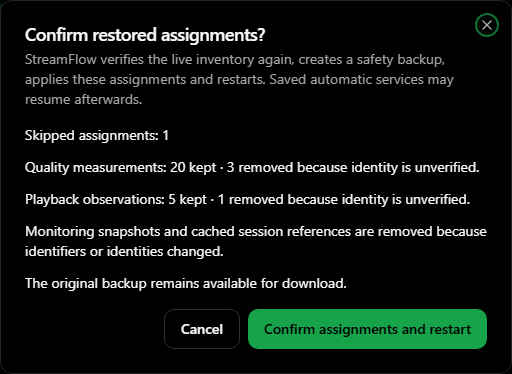
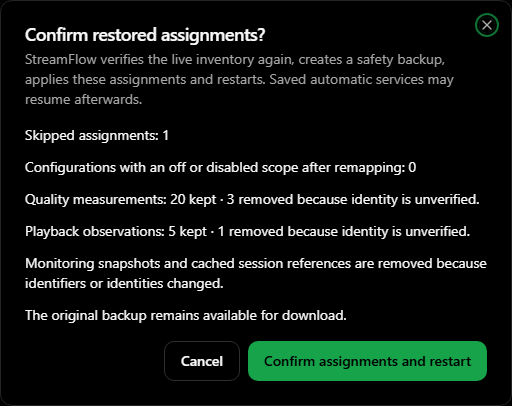
fix: preserve legacy UUID scopes and show disabled restore configurations

diff --git a/frontend/src/components/backups/RestoreReview.jsx b/frontend/src/components/backups/RestoreReview.jsx
@@ -89,6 +89,7 @@ export default function RestoreReview({ review, disabled, run, onRestart, error 
         {error && <Alert variant="destructive"><AlertDescription>{error}</AlertDescription></Alert>}
         {preview && <div className="space-y-3 text-sm">
           <p>Skipped assignments: {preview.skipped_assignments}</p>
+          <p>Configurations with an off or disabled scope after remapping: {preview.disabled_configurations || 0}</p>
           {Object.entries(preview.history).map(([key, value]) => <p key={key}>{key === 'stream_telemetry' ? 'Quality measurements' : 'Playback observations'}: {value.kept} kept · {value.removed} removed because identity is unverified.</p>)}
           <p>{preview.monitoring_history_kept ? 'Verified monitoring snapshots remain stopped.' : 'Monitoring snapshots and cached session references are removed because identifiers or identities changed.'}</p>
           <p>The original backup remains available for download.</p>

diff --git a/backend/apps/backups/review.py b/backend/apps/backups/review.py
@@ -130,6 +130,22 @@ def mapping_context(root, source, current, mappings):
     mappings['channel_uuids'] = {row['uuid']: target_by_id['channels'][target].get('uuid') or None
                                for row in source['channels'] if row.get('uuid')
                                and (target := mappings['channels'].get(row['id'])) in target_by_id['channels']}
+    # Legacy UUID filters still prove identity when that UUID exists uniquely
+    # on the destination. A skipped known source assignment must stay skipped.
+    current_uuids = {}
+    for row in current['channels']:
+        if row.get('uuid'):
+            current_uuids[row['uuid']] = current_uuids.get(row['uuid'], 0) + 1
+    for row in source['channels']:
+        if row.get('uuid') and row['id'] in mappings['channels']:
+            mappings['channel_uuids'].setdefault(row['uuid'], None)
+    with closing(sqlite3.connect(root / 'streamflow.db')) as db:
+        def preserve_uuid(kind, value):
+            if kind == 'channel_uuids' and value not in mappings['channel_uuids']:
+                mappings['channel_uuids'][value] = value if current_uuids.get(value) == 1 else None
+            return value
+        for origin, key, value in configuration_records(db, root):
+            visit(value, str(key).removesuffix('.json'), preserve_uuid)
     foreign = not (root / INVENTORY_FILE).exists() or any(target != old or (kind in ('providers','channels') and not same_identity(source_by_id[kind].get(old, {}), target_by_id[kind].get(target, {})))
                   for kind in KINDS[:-1] for old, target in mappings[kind].items())
     # Monitoring snapshots embed stream IDs as well as channel/provider IDs.
@@ -143,7 +159,9 @@ def preview_mappings(root, source, current, mappings):
     counts = {}
     with closing(sqlite3.connect(Path(root) / 'streamflow.db')) as db:
         # Validate scopes before offering confirmation; this path never writes.
-        list(configuration_rewrites(db, Path(root), mappings))
+        rewrites = list(configuration_rewrites(db, Path(root), mappings))
+        disabled_scopes = sum(disable or (isinstance(value, dict) and value.get('enabled') is False)
+                              for origin, key, value, disable in rewrites)
         for table in ('stream_telemetry', 'playback_observations'):
             fields = 'channel_id,stream_id' + (',source_fingerprint' if table == 'playback_observations' else '')
             rows = db.execute(f'SELECT {fields} FROM {table}').fetchall()
@@ -151,7 +169,7 @@ def preview_mappings(root, source, current, mappings):
                        (table != 'playback_observations' or row[2] == source_by_id['streams'].get(row[1], {}).get('identity')) for row in rows)
             counts[table] = {'kept': kept, 'removed': len(rows) - kept}
     return {'foreign': foreign, 'history': counts, 'skipped_assignments': sum(target is None for kind in KINDS[:-1] for target in mappings[kind].values()),
-            'monitoring_history_kept': not foreign}
+            'monitoring_history_kept': not foreign, 'disabled_configurations': disabled_scopes}
 
 
 def apply_mappings(root, source, current, mappings):

diff --git a/backend/tests/test_backup_review.py b/backend/tests/test_backup_review.py
@@ -297,3 +297,25 @@ def test_complete_fetch_checks_unique_ids_and_requests_stable_order(monkeypatch)
     assert all('ordering=id' in url for url in requested if 'page=' in url)
     monkeypatch.setattr(UDIFetcher,'fetch_all_ids',lambda self:{'channels':{1},'streams':{2,3}})
     with pytest.raises(ValueError,match='incomplete'):fetch_inventory()
+
+
+@pytest.mark.parametrize('legacy,skip,expected', [(False,False,['channel-a']), (True,False,['channel-a']), (False,True,[])])
+def test_uuid_filters_preserve_proof_and_respect_explicit_skip(persistent,inventory,legacy,skip,expected):
+    with closing(sqlite3.connect(persistent/'streamflow.db')) as db:
+        db.execute('INSERT INTO system_settings VALUES (?,?)', ('shadow_blank_monitor_config',json.dumps({'enabled':True,'included_channel_uuids':['channel-a']})));db.commit()
+    if legacy:(persistent/INVENTORY_FILE).unlink()
+    mappings=plan()
+    if skip:mappings['channels']['1']=None
+    preview=preview_mappings(persistent,load_source(persistent),inventory,mappings)
+    apply_mappings(persistent,load_source(persistent),inventory,mappings)
+    value=json.loads(dict(rows(persistent/'streamflow.db','system_settings'))['shadow_blank_monitor_config'])
+    assert value['included_channel_uuids']==expected and value['enabled'] is (not skip)
+    if skip:assert preview['disabled_configurations']>0
+
+
+def test_legacy_string_provider_identifiers_preserve_regex_restrictions(persistent,inventory):
+    with closing(sqlite3.connect(persistent/'streamflow.db')) as db:
+        db.execute('UPDATE channel_regex_patterns SET m3u_accounts=?', ('["5", "9"]',));db.commit()
+    apply_mappings(persistent,inventory,inventory,plan())
+    with closing(sqlite3.connect(persistent/'streamflow.db')) as db:
+        assert json.loads(db.execute('SELECT m3u_accounts FROM channel_regex_patterns').fetchone()[0])==[5,9]

diff --git a/backend/apps/backups/references.py b/backend/apps/backups/references.py
@@ -152,7 +152,7 @@ def rewrite_configuration(db, root, mappings, *, foreign):
     for identity, channel, pattern, raw, order in patterns:
         target = mappings['channels'].get(identifier(channel))
         providers = json.loads(raw) if raw else None
-        rewritten = [mappings['providers'][p] for p in providers if mappings['providers'].get(p) is not None] if providers else providers
+        rewritten = [mappings['providers'][identifier(p)] for p in providers if mappings['providers'].get(identifier(p)) is not None] if providers else providers
         if target is not None and not (providers and not rewritten):
             db.execute('INSERT INTO channel_regex_patterns VALUES (?,?,?,?,?)', (identity, str(target), pattern, json.dumps(rewritten) if rewritten is not None else None, order))
     if foreign:
